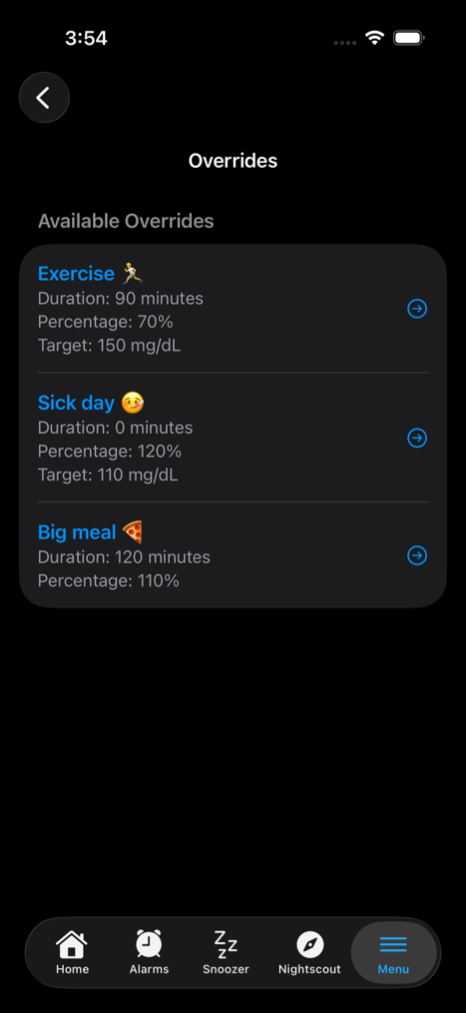
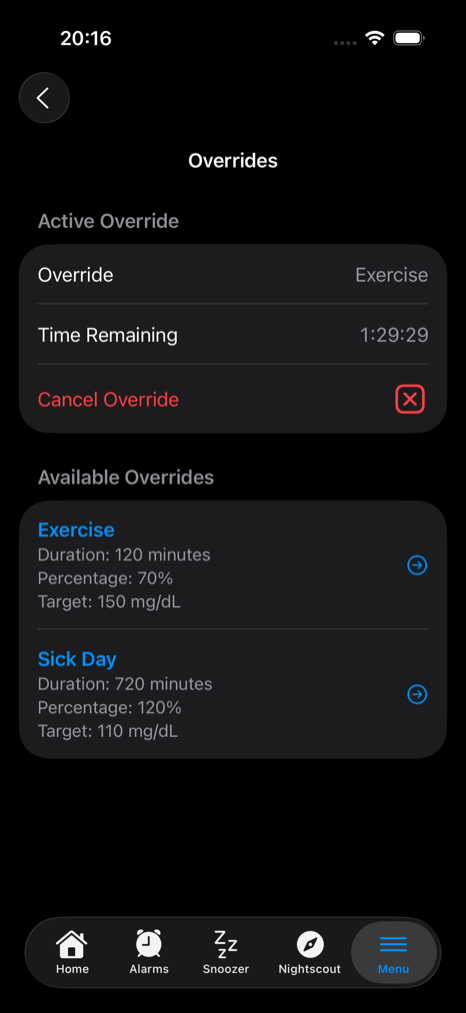
Document the active override and temp target remaining time displays
The Live Activity shows a row below the grid with the active override or
temp target, with a countdown when 2 hours or less remain. The Override
grid slot option is now only offered for the small widget slot.

The Trio and Loop remote control screens show the remaining time of the
active override or temp target, and the Trio remote control buttons get
a green glow while one is active. New screenshots show the active
states.

diff --git a/docs/remote/remote-control-trio.md b/docs/remote/remote-control-trio.md
@@ -44,8 +44,10 @@ Remember to give the system time to update.
 
 The sequence is *LoopFollow* to *Apple Push Notifications* to *Trio*, which uploads to *Nightscout* and then is displayed in the *LoopFollow* main screen.
 
-![loopfollow trio remote control choices](img/lf-trc.jpg){width="300"}
+![loopfollow trio remote control choices](img/lf-trc-active.png){width="300"}
 {align=center}
+
+While an override or temp target is active, its button is outlined with a green glow — in the screenshot above, both are active.
 
 ### Remote Sequence Steps
 
@@ -158,13 +160,16 @@ The Temp Target screen enacts or cancels a temporary glucose target on *Trio*:
 ![remote temp target](img/lf-trc-temp-target.png){width="300"}
 {align=center}
 
-When a temp target is already running, the screen shows it with a **Cancel Temp Target** button.
+When a temp target is already running, the screen shows it with its remaining time and a **Cancel Temp Target** button. The remaining time is a live countdown when 2 hours or less remain; otherwise it is shown as a duration, such as 5h 30m. A temp target set for a week or longer is treated as indefinite and shows no remaining time.
+
+![remote temp target with an active temp target](img/lf-trc-temp-target-active.png){width="300"}
+{align=center}
 
 ### Overrides
 
 The override presets listed on this screen are defined in *Trio* — *LoopFollow* reads them (name, duration, percentage, and target) from the profile that *Trio* uploads to *Nightscout*. New presets cannot be created from *LoopFollow*.
 
-Tap a preset to activate it; a confirmation is shown before the command is sent. While an override is active, it is listed with a button to cancel it.
+Tap a preset to activate it; a confirmation is shown before the command is sent. While an override is active, it is listed with its remaining time and a button to cancel it. The remaining time is a live countdown when 2 hours or less remain; otherwise it is shown as a duration, such as 5h 30m. An override set for a week or longer is treated as indefinite and shows no remaining time.
 
 ![remote overrides](img/lf-trc-override.png){width="300"}
 {align=center}

diff --git a/docs/setup/lf-setup.md b/docs/setup/lf-setup.md
@@ -501,6 +501,8 @@ The Live Activity screen allows the following selections:
     * Each option can only appear in one slot at a time
     * The default slots are: IOB (top left), COB (bottom left), Projected BG (top right), Empty (bottom right)
 
+While an override or temp target is active, the Live Activity shows a row below the grid with its name or target value. When 2 hours or less remain, a live countdown is shown next to it; longer or indefinite overrides show just the name. The same row appears in the expanded Dynamic Island. Because of this row, the Override option is not offered for the 4 grid slots; it is still available for the small widget slot.
+
 The following options are available for each grid slot:
 
 | Option | Description |
@@ -525,7 +527,7 @@ The following options are available for each grid slot:
 | CAGE | Cannula Age |
 | IAGE | Insulin Age |
 | Carbs today | Total grams of carbs since midnight |
-| Override | Active override information |
+| Override | Active override information (small widget slot only) |
 | Profile | Named profile |
 
 ### Remote

diff --git a/docs/faqs/lf-history.md b/docs/faqs/lf-history.md
@@ -17,6 +17,7 @@
     * [Color thresholds](../setup/lf-setup.md#color-thresholds){: target="_blank" } for Information Display rows
     * Search added to the alarms list, the Add Alarm sheet, and the [Menu](../setup/lf-setup.md#menu-screen){: target="_blank" }
     * [APNS credentials can be exported/imported](../setup/lf-setup.md#importexport){: target="_blank" } via QR code
+    * The [Live Activity](../setup/lf-setup.md#live-activity){: target="_blank" } and the [remote control](../remote/remote-control-trio.md#overrides){: target="_blank" } screens show the active override or temp target with its remaining time
     * Graph updates:
         * All graphs rebuilt on native Swift Charts
         * Dragging on the small graph moves the main chart in real time

diff --git a/docs/remote/remote-control-loop.md b/docs/remote/remote-control-loop.md
@@ -150,7 +150,7 @@ Tap a preset to open the activation sheet:
 ![ override activation sheet](img/lf-lrc-override-modal.png){width="300"}
 {align=center}
 
-While an override is active, it is listed in an **Active Override** section with a button to cancel it.
+While an override is active, it is listed in an **Active Override** section with its remaining time and a button to cancel it. The remaining time is a live countdown when 2 hours or less remain; otherwise it is shown as a duration, such as 5h 30m. Overrides enabled indefinitely show no remaining time.
 
 - - -
 
